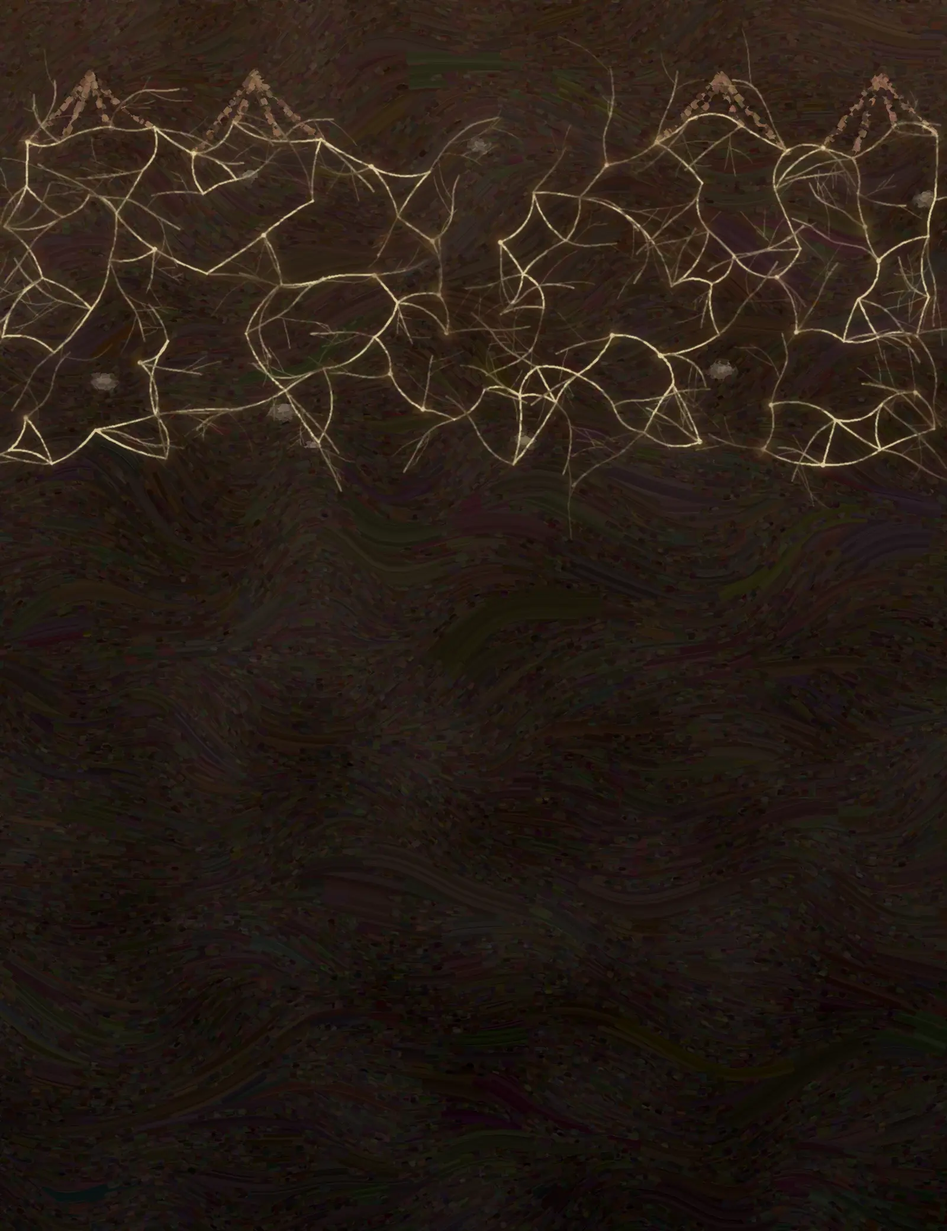
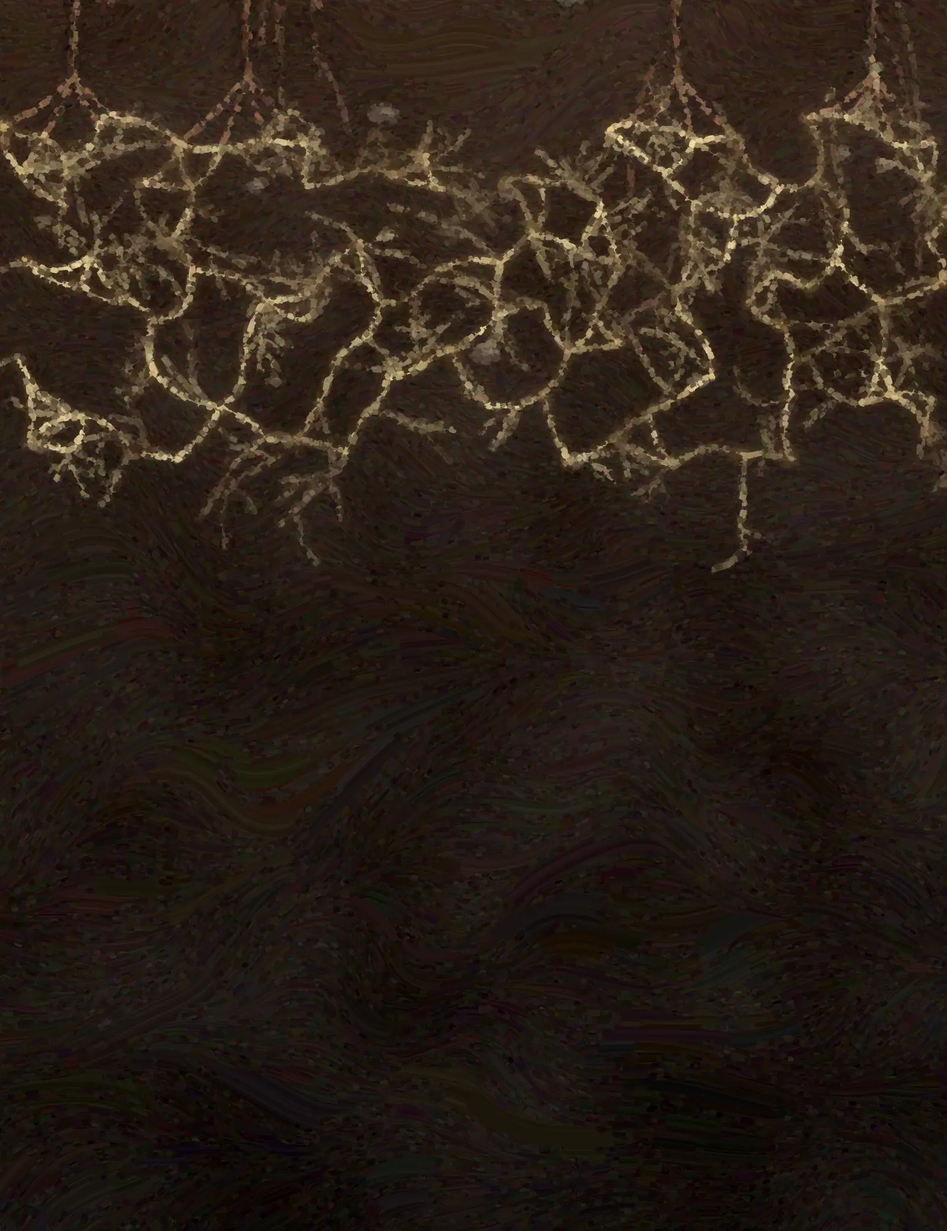
fix(landing): join the roots to the network; paint the threads with the brush
The deep-earth background was laid after the roots, wiping out the
stretch of each root that runs down into it and leaving a gap above
the network. Lay it first.

The fungal threads were still drawn over the finished painting. They
now go into the underdrawing, so the brush builds them from strokes
like everything else; only their glow is laid on as light.

Claude-Session: https://claude.ai/code/session_012KEDndk26D229XghHMz4Pq

Changed region(s): [[0.0, 0.0, 1.0, 0.4688], [0.75, 0.4375, 0.7812, 0.4688], [0.3125, 0.0, 0.3438, 0.0312]]

diff --git a/landing/paint.py b/landing/paint.py
@@ -191,7 +191,7 @@ class Scene:
         self.ref = np.zeros((self.h, self.w, 3), np.uint8)
         self.rays = np.zeros((self.h, self.w), np.float32)
         self.glow = np.zeros((self.h, self.w), np.float32)
-        self.strands = np.zeros((self.h, self.w), np.float32)  # threads, as light
+        self.strands = np.zeros((self.h, self.w), np.float32)  # the fungal threads
         self.angle = np.zeros((self.h, self.w), np.float32)
         self.over = np.zeros((self.h, self.w), np.uint8)  # what sits in front of lines
         self.tree_x = [f * self.w for f in self.lay.trees]
@@ -427,6 +427,7 @@ class Scene:
         self.sky()
         self.canopy()
         self.trunks()
+        self.deep_earth()  # before the roots, which run down into it
         self.soil()
         self.deep()
         return self
@@ -788,8 +789,8 @@ class Scene:
             axes = (max(1, round(rad)), max(1, round(rad * 0.62)))
             cv2.ellipse(self.over, pt((x, y)), axes, 0, 0, 360, 1, -1)
 
-    def deep(self) -> None:
-        """The deepest earth, the last root tips, and the network that joins them."""
+    def deep_earth(self) -> None:
+        """The deepest earth itself: dark soil and a few stones."""
         y0, y1 = self.tops[4], self.tops[5]
         u = self.u
         self.gradient(
@@ -800,6 +801,12 @@ class Scene:
         band = (y0 + 0.07 * (y1 - y0), y0 + self.lay.web * (y1 - y0))
         for _ in range(round(8 * self.w / (1600 * u))):
             self.stone(self.r(0, self.w), self.r(band[0], band[1]), self.r(12, 28) * u)
+
+    def deep(self) -> None:
+        """The last root tips, and the network of threads that joins them."""
+        y0, y1 = self.tops[4], self.tops[5]
+        u = self.u
+        band = (y0 + 0.07 * (y1 - y0), y0 + self.lay.web * (y1 - y0))
         nodes = self.web_nodes(band)
         for a, b in self.web_edges(nodes):
             mid = (nodes[a] + nodes[b]) / 2
@@ -816,14 +823,20 @@ class Scene:
             cv2.circle(
                 self.glow, pt(node), max(1, round(rad * 2)), 1.0, -1, cv2.LINE_AA
             )
-        # Let the threads come and go, as a painter loses and finds an edge.
-        self.strands[y0:y1] *= 0.3 + 0.7 * self.noise(y0, y1, 70 * u)
+        # The threads go into the underdrawing, so the brush paints them too.
+        # They come and go, as a painter loses and finds an edge.
+        soft = cv2.GaussianBlur(self.strands[y0:y1], (0, 0), 1.1 * u)
+        fade = np.clip(self.noise(y0, y1, 70 * u), 0, 1)
+        cover = np.clip(soft * 1.4, 0, 1) * (0.35 + 0.65 * fade)
+        band_ref = self.ref[y0:y1].astype(np.float32)
+        band_ref += cover[:, :, None] * (np.array(THREAD, np.float32) - band_ref)
+        self.ref[y0:y1] = np.clip(band_ref, 0, 255).astype(np.uint8)
         self.glow = cv2.GaussianBlur(self.glow, (0, 0), 9 * u)
 
     def thread(self, path: np.ndarray, wide: float, shine: float) -> None:
-        """Lay one fungal thread as light: a soft strand, and a glow around it."""
+        """Lay one fungal thread: a strand for the brush, and a glow around it."""
         line = [np.round(path).astype(np.int32)]
-        thick = max(1, round(wide * 1.6))
+        thick = max(2, round(wide * 3))
         cv2.polylines(self.strands, line, False, shine, thick, cv2.LINE_AA)
         cv2.polylines(self.glow, line, False, shine * 0.5, thick * 2, cv2.LINE_AA)
 
@@ -1025,11 +1038,6 @@ class Painter:
         ):
             cover = np.clip(light * amount, 0, 1)[:, :, None]
             out += cover * (np.array(tint, np.float32) - out) * 0.9
-        # The fungal threads go on as light, broken up by the paint under them.
-        weave = 0.5 + cv2.GaussianBlur(self.height, (0, 0), 1.0)
-        soft = cv2.GaussianBlur(self.scene.strands, (0, 0), 0.9 * self.scene.u)
-        strand = np.clip(soft * weave * 1.5, 0, 1)[:, :, None]
-        out += strand * (np.array(THREAD, np.float32) - out) * 0.85
         return np.clip(out, 0, 255).astype(np.uint8)
 
 

diff --git a/landing/README.md b/landing/README.md
@@ -42,8 +42,8 @@ Keep it there when you edit.
    first, then finer ones only where the picture still differs from it. Each stroke is a bundle of
    bristles of slightly different color, so it streaks like gouache. Branches, twigs and roots are
    part of the underdrawing, so the brush paints them like everything else; none of them is a
-   ruled line. Only grass and ferns go on last with a fine brush. The sunbeams, the fungal threads
-   and their glow are laid over the top as light.
+   ruled line, and neither are the fungal threads. Only grass and ferns go on last with a fine
+   brush. The sunbeams and the threads' glow are laid over the top as light.
 3. **Cut.** It slices the tall picture into a piece per page section.
 
 ```bash
